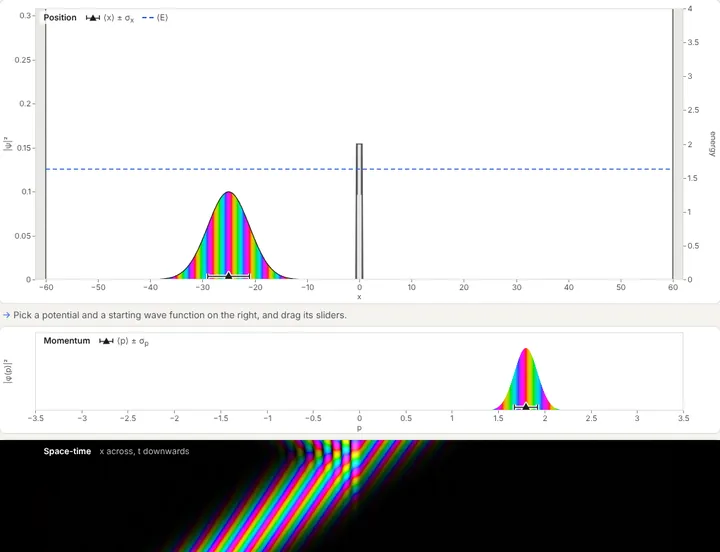
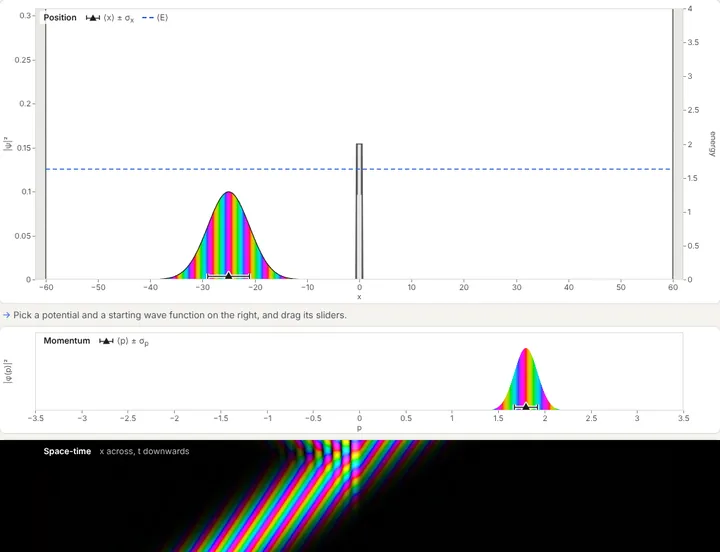
Schrödinger 1D: Backwards pauses at t = 0, and Play goes on into negative time
Running back from t > 0 pauses at t = 0 exactly, on the starting state, with a
note; Play then carries on into the state's past under the same Hamiltonian.
Experiment 19 and the help say what that past looks like (the packet wider,
narrowest at t = 0) and why the absorbing walls would get it wrong.

Fixes an older bug on the way: when the time left to t = 0 needed more steps
than a frame allows, the frame stopped short and still paused as if there, so
the recovered packet was really at t = 0.39 (<x> = -24.30, not -25).  The
pause now comes only on the frame that gets there.  A UI check covers both.

Claude-Session: https://claude.ai/code/session_01Uf588EmEoW67UxQKckEGyR

Changed region(s): [[0.275, 0.8007, 0.55, 1.0]]

diff --git a/schrodinger1d/index.html b/schrodinger1d/index.html
@@ -94,8 +94,9 @@
     <p>Pick a <b>potential</b> on the right, then a starting <b>wave function</b> from its rows of
     named states, and drag the sliders (<b>x₀</b>, <b>σ</b>, <b>k₀</b> for a packet).  Click a thin
     grey line on the plot to load that stationary state.  <b>Play</b> pauses and resumes,
-    <b>Restart</b> goes back to the beginning, <b>Backwards</b> runs time in reverse, and
-    <b>Speed</b> slows a fast packet down.</p>
+    <b>Restart</b> goes back to the beginning, <b>Backwards</b> runs time in reverse (it pauses
+    at time zero, the starting state again; <b>Play</b> then goes on into negative time, the
+    state's past), and <b>Speed</b> slows a fast packet down.</p>
     <p>Look for this: a stationary state only changes colour; anything else moves, spreads or
     sloshes.  The triangle and bar at the foot of the plot are the mean position and its spread,
     and the readouts above the plot give the same numbers.  Each experiment below sets up one
@@ -300,9 +301,14 @@
     <h3>19. Running time backwards</h3>
     <p>A spread-out mess: a packet hit a barrier a while ago, and part went through, part came back.
     <em>Backwards</em> is on: press <em>Play</em>, and the reflected and transmitted parts come back
-    together into the original packet, which stops at $t=0$.  The
+    together into the original packet, and the clock pauses at $t=0$.  The
     Schrödinger equation is time-reversal symmetric (the absorbing walls are not, so they are
-    off here).</p>
+    off here).  Press <em>Play</em> again to go on into negative time, the packet's past under the
+    same Hamiltonian: it moves back to the left and is wider, so at $t=0$ it was at its narrowest
+    (a Gaussian with no chirp spreads the same way into the past as into the future,
+    $\sigma(t)=\sigma_0\sqrt{1+(\hbar t/2m\sigma_0^2)^2}$).  In this box its past soon includes a bounce
+    off the left wall; with absorbing walls the past would be wrong, as what they take can't come
+    back.</p>
   </article>
 
   <h3>How it is computed</h3>

diff --git a/schrodinger1d/app.js b/schrodinger1d/app.js
@@ -273,12 +273,19 @@ function rebuild() {
 function advance(T) {
   if (T === 0) return;
   dtMax = Math.min(dtCal, sim.suggestedStep(lastE));
-  // Running backwards stops at t = 0: the initial state, recovered.
-  if (state.direction < 0 && sim.t + T < 0) { T = -sim.t; setRunning(false); toast('Back at t = 0.'); }
-  if (Math.abs(T) < 1e-12) return;
+  // Running backwards from t > 0 pauses at t = 0 exactly: the initial state, recovered.  Play
+  // again goes on into negative time, the state's past under the same Hamiltonian.
+  // (Only on the frame that gets there: one whose steps are capped stops short of it.)
+  let atZero = false;
+  if (state.direction < 0 && sim.t > 0 && sim.t + T <= 0) { T = -sim.t; atZero = true; }
   let steps = Math.max(1, Math.ceil(Math.abs(T) / dtMax));
   slowed = false;
-  if (steps > maxSteps) { steps = maxSteps; T = Math.sign(T) * steps * dtMax; slowed = true; slowFrames++; }
+  if (steps > maxSteps) { steps = maxSteps; T = Math.sign(T) * steps * dtMax; slowed = true; slowFrames++; atZero = false; }
+  if (atZero) {
+    setRunning(false);
+    toast('Back at t = 0: the starting state again.  Play goes on into negative time.', 4000);
+  }
+  if (Math.abs(T) < 1e-12) { if (atZero) sim.t = 0; return; }
   frames++;
   const h = T / steps;
   if (Vdynamic) {
@@ -292,6 +299,7 @@ function advance(T) {
     sim.step(h, steps);
     for (let s = 0; s < steps; s++) stepClassical(h);
   }
+  if (atZero) sim.t = 0;        // (exactly, not a rounding away, so Play doesn't pause again)
   started = true;
 }
 

diff --git a/tests/ui/schrodinger1d.py b/tests/ui/schrodinger1d.py
@@ -272,6 +272,22 @@ with Browser('schrodinger1d/index.html', size=(1400, 950)) as b:
     b.eval(f"location.hash = 'pot=well&init=' + encodeURIComponent({json.dumps(init)}); location.reload()")
     b.sleep(1.0); b.wait('window.__app && __app.ready')
     check(lit(b) == [['Off resonance', True]], f'a link to the finite well with that packet lights Off resonance ({lit(b)})')
+
+    # Backwards pauses at t = 0 exactly, on the starting packet; Play again goes on into negative
+    # time, the packet's past: further left, and wider (a Gaussian with no chirp is narrowest at 0).
+    b.eval('__app.setups.backwards()'); b.sleep(0.3)
+    back = b.eval("""(() => { const play = document.querySelector('#play'); if (!__app.state.running) play.click();
+        let i = 0; for (; i < 1000 && __app.state.running; i++) __app.advance(-0.5);
+        const o = __app.sim.observables(); return { t: __app.sim.t, running: __app.state.running, x: o.x, sx: o.sx, i }; })()""")
+    check(back['t'] == 0 and not back['running'] and abs(back['x'] + 25) < 0.05 and abs(back['sx'] - 4) < 0.05,
+          f"Backwards pauses at t = 0 exactly, on the starting packet (t = {back['t']}, <x> = {back['x']:.3f}, sigma = {back['sx']:.3f})")
+    past = b.eval("""(() => { const play = document.querySelector('#play'); play.click();
+        for (let i = 0; i < 1000 && __app.sim.t > -3 + 1e-9; i++) __app.advance(Math.max(-0.5, -3 - __app.sim.t));
+        const o = __app.sim.observables(), r = { t: __app.sim.t, running: __app.state.running, x: o.x, sx: o.sx, norm: o.norm };
+        play.click(); return r; })()""")
+    check(abs(past['t'] + 3) < 1e-9 and past['running'] and abs(past['x'] - (-25 - 1.8 * 3)) < 0.1
+          and abs(past['sx'] - 4 * math.sqrt(1 + (3 / 32) ** 2)) < 0.02 and abs(past['norm'] - 1) < 1e-9,
+          f"Play goes on into negative time: at t = {past['t']:.2f} the packet is at {past['x']:.2f} (−30.4) and {past['sx']:.4f} wide ({4 * math.sqrt(1 + (3 / 32) ** 2):.4f})")
     errors = [c for c in b.console if c.startswith(('EXCEPTION', 'error'))]
     check(not errors, 'no exceptions' + ('' if not errors else ': ' + '; '.join(errors[:3])))
 

diff --git a/CLAUDE_CODE_CHAT.md b/CLAUDE_CODE_CHAT.md
@@ -1769,3 +1769,19 @@ across at 0.4 ms (about 100 V on the coil), 97.3% at 1 ms (40 V), 95.7% at 1.6 m
 clamp near 40-50 V would cost about 1.5% of the signal and keep the coil and its cable far below
 130 V; the author's call.  East–west (magnetic) is confirmed; at a slant the real switch-off makes
 the loss a little more than sin²α (north–south 0.68, not 0.733).
+
+## Prompt 29
+
+> Yes, change Schrodinger 1d so Backwards pauses at t = 0 and pressing Play continues into negative time.
+
+### Response 29 (2026-11-04)
+
+Backwards now pauses at t = 0 exactly, with a note that Play goes on, and Play then runs into
+negative time: the packet's past under the same Hamiltonian.  In experiment 19 that past is the
+tunnelling packet further left and wider (σ(−3) = 4.0175 against 4 at t = 0, the packet being
+narrowest there), and soon a bounce off the box's left wall; the help says why absorbing walls
+would get the past wrong.  Making it turned up an older bug: when the time left to t = 0 needed
+more steps than a frame allows, the frame stopped short and still paused with "Back at t = 0";
+the recovered packet was really at t = 0.39 (⟨x⟩ = −24.30 against −25).  The pause now comes only
+on the frame that gets there, and the packet comes back to ⟨x⟩ = −24.99999997, σ = 4.00000002.
+A UI check covers both, and the experiment's picture is remade.
